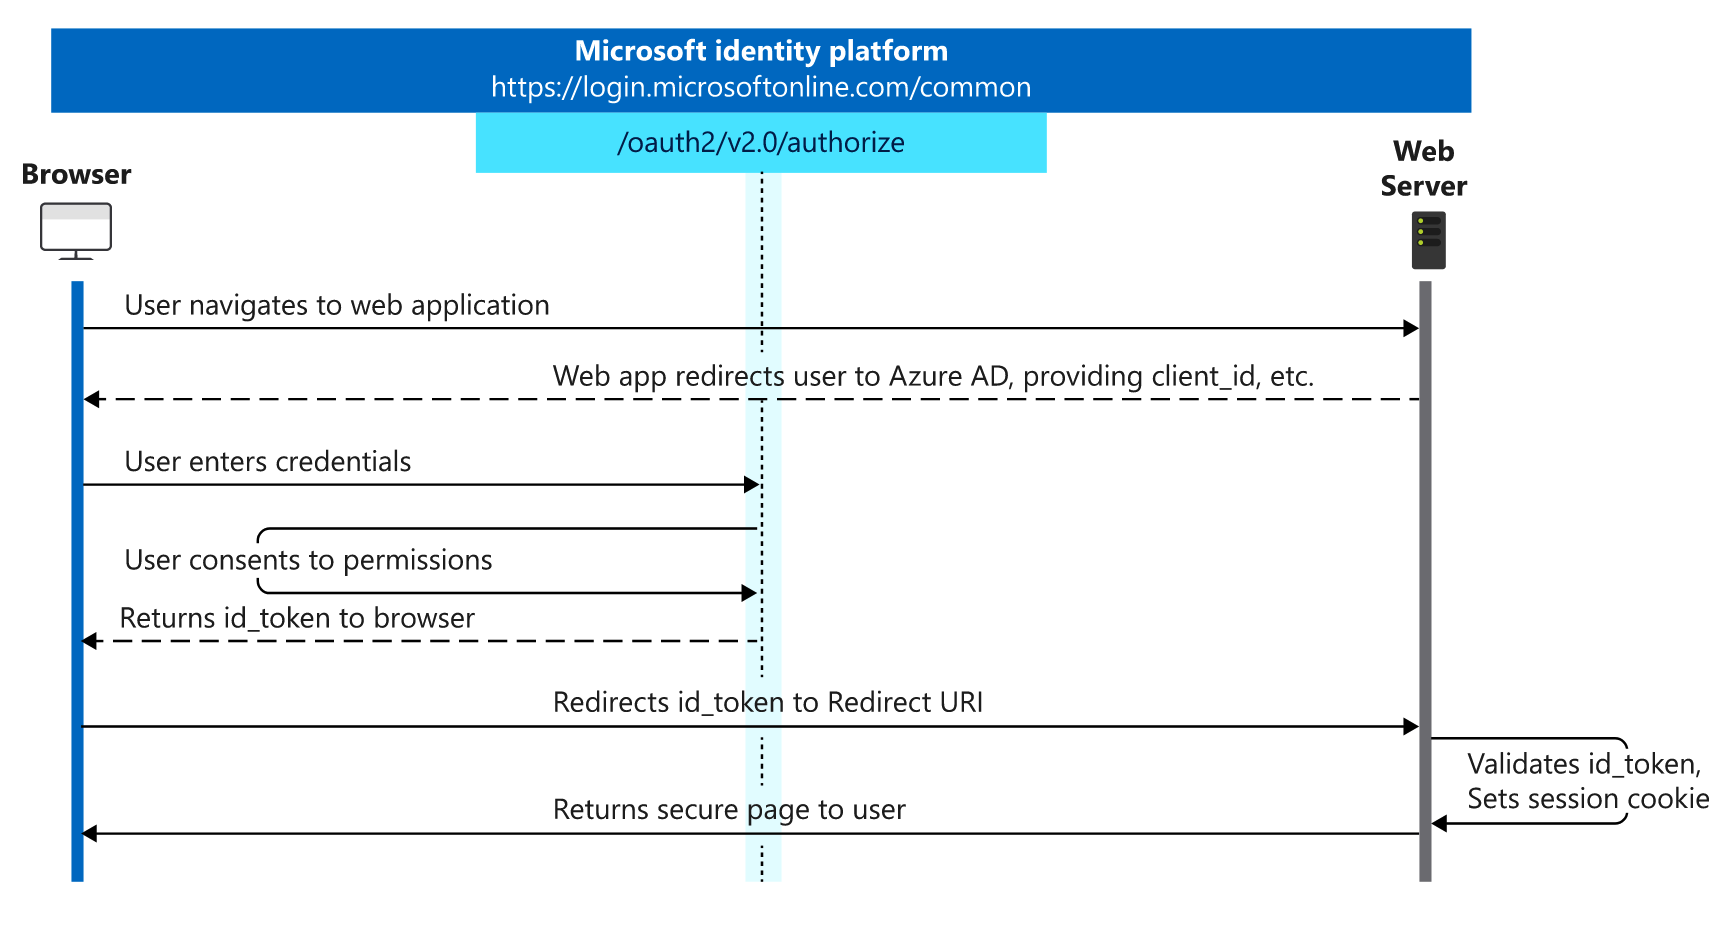
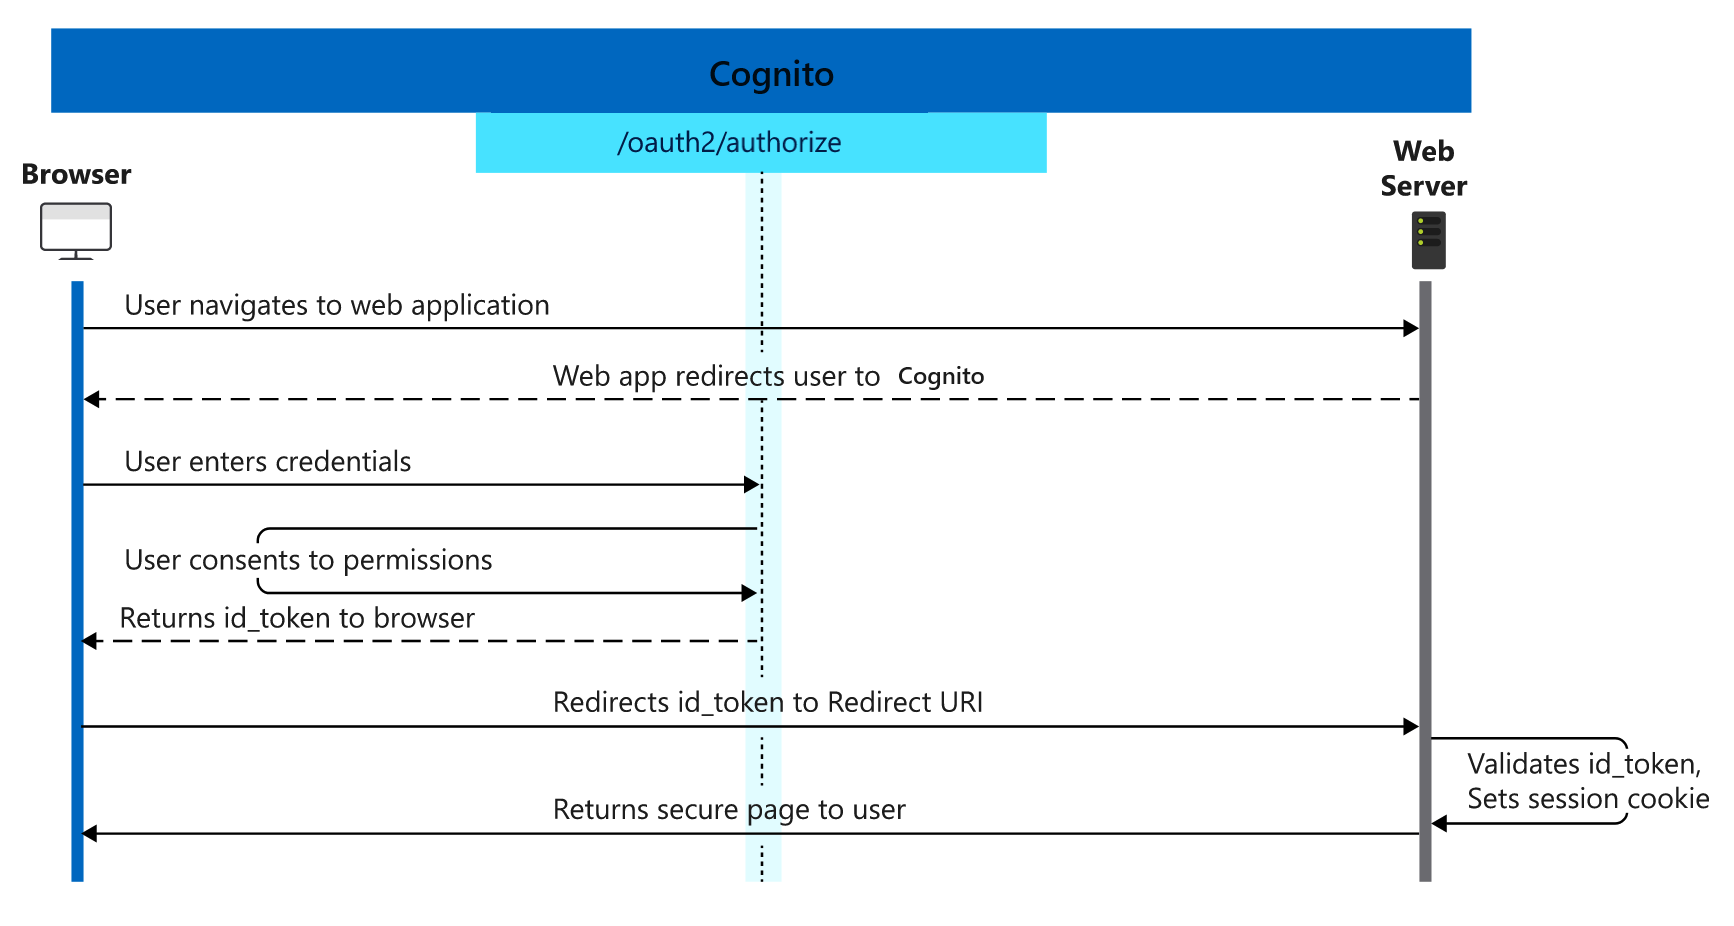
first review

Changed region(s): [[0.2803, 0.0302, 0.5917, 0.1814], [0.4983, 0.3931, 0.7474, 0.4233]]

diff --git a/authentication/Cognito/README.md b/authentication/Cognito/README.md
@@ -2,7 +2,6 @@
 
 <!-- TOC -->
 
-- [Configuration of ODM with Amazon Cognito](#configuration-of-odm-with-amazon-cognito)
 - [Introduction](#introduction)
     - [What is Amazon Cognito?](#what-is-amazon-cognito)
     - [About this task](#about-this-task)
@@ -211,6 +210,9 @@ To create the Cognito User Pool dedicated to ODM, we followed the [getting start
    In **Group information**:
      * **Group name**:
        * Enter the **odm-admin** name
+> [!WARNING]
+> Please do not use a different name than **odm-admin** 
+
      * Click on **Create group**
 
 ## Add the created user to the **odm-admin** group
@@ -275,8 +277,10 @@ Select the **odmuserpool** User Pool:
     In **App client**:
       * App type:
         * Select **Confidential client**
-      For **App client name**:
+
+      * For **App client name**:
         * Enter **odmclientcredentials**
+
     In **Hosted UI settings**:
       * For **URL**
         * Enter a dummy URL: https://localhost
@@ -292,7 +296,7 @@ Select the **odmuserpool** User Pool:
 ## Create a custom claim
 
 To be able to correctly manage the authorization from the ODM client application hosted on liberty by using an id_token for using the authorization flow and with an access_token for the client-credentials flow, we need a common claim inside the id_token and the access_token. We could use the **sub** claim. But, if we use **sub**, it will display inside ODM UI a unique identifier as a UUID which is not convenient as we prefer a name or an email. We would like to manage it the same way we do it with Azure AD creating an [**identity** custom claim](https://github.com/DecisionsDev/odm-docker-kubernetes/blob/master/authentication/AzureAD/README_WITH_CLIENT_SECRET.md#set-up-an-microsoft-entra-id-application-using-a-client-secret). Unfortunately, even if Cognito recently added a support for [custom claim in access token](https://aws.amazon.com/about-aws/whats-new/2023/12/amazon-cognito-user-pools-customize-access-tokens/), it is still [not supported for access_token dealing with the client-credentials flow](https://docs.aws.amazon.com/cognito/latest/developerguide/user-pool-lambda-pre-token-generation.html).
-So, the following way to manage this is a workaround by waiting the availability of this feature.
+So, the following way to manage this is a workaround until this feature is available.
 
 As we cannot add a custom claim inside the client-credentials access_token, we will add a claim inside the id_token that is already present inside the access_token.       
 There is a **client_id** claim inside the access_token, that is not present by default inside the id_token.
@@ -326,9 +330,10 @@ Select **Functions** in the left menu:
   
 In the **Create function** section:
   * choose **Author from scratch**
+
 In **Basic information**:
   * In **function name**
-    * Put **odmLambdaFunction**
+    * Enter **odmLambdaFunction**
 
 Click on the **Create function** button
 
@@ -356,7 +361,8 @@ const handler = async (event) => {
 
 export { handler };
 ```
-! Don't forget to click on the **Deploy** button
+> [!WARNING]
+> Do not forget to click on the **Deploy** button !
 
 3. Associate the Lamda function to the Pre token generation Lambda trigger
 
@@ -429,7 +435,10 @@ In the **Container software library** tile, verify your entitlement on the **Vie
     - *COGNITO_USER_POOL_ID* is the COGNITO User Pool ID retrieved at Amazon Cognito > User pools > odmuserpool > User pool overview > User pool ID
     
 
-    The [script](generateTemplate.sh) allows you to generate the necessary configuration files.
+    The script [generateTemplate.sh](generateTemplate.sh) allows you to generate the necessary configuration files.
+    
+    This script is available in the present project and requires some companion files in the project as well. So please clone/download the project at this point if you have not done this already.
+
     Generate the files with the following command:
     ```
     ./generateTemplate.sh -u COGNITO_USER_POOL_ID -d COGNITO_DOMAIN_NAME -r COGNITO_REGION -i COGNITO_APP_CLIENT_ID -s COGNITO_APP_CLIENT_SECRET -c COGNITO_CC_CLIENT_ID -x COGNITO_CC_CLIENT_SECRET
@@ -437,14 +446,28 @@ In the **Container software library** tile, verify your entitlement on the **Vie
 
     Where:
     - *COGNITO_USER_POOL_ID* is the COGNITO User Pool ID retrieved at Amazon Cognito > User pools > odmuserpool > User pool overview > User pool ID
-    - *COGNITO_DOMAIN_NAME* is the prefix name of the COGNITO User Pool Domain retrieved at Amazon Cognito > User pools > odmuserpool > App integration > Domain (odm in our tutorial)
+    - *COGNITO_DOMAIN_NAME* is the prefix name of the COGNITO User Pool Domain retrieved at Amazon Cognito > User pools > odmuserpool > App integration > Domain
+    > [!WARNING]
+    > only copy the prefix (odm in our tutorial) and not the entire value
     - *COGNITO_REGION* is the region where the COGNITO User Pool is deployed
     - *COGNITO_APP_CLIENT_ID* is the COGNITO ODM App Client ID retrieved at Amazon Cognito > User pools > odmuserpool > App integration > App clients and analytics > odm > Client ID
     - *COGNITO_APP_CLIENT_SECRET* is the COGNITO ODM App Client Secret retrieved at Amazon Cognito > User pools > odmuserpool > App integration > App clients and analytics > odm > Client Secret
     - *COGNITO_CC_CLIENT_ID* is the COGNITO ODM Client-Credentials App Client ID retrieved at Amazon Cognito > User pools > odmuserpool > App integration > App clients and analytics > odmclientcredentials > Client ID
     - *COGNITO_CC_CLIENT_SECRET* is the COGNITO ODM Client-Credentials App Client Secret retrieved at Amazon Cognito > User pools > odmuserpool > App integration > App clients and analytics > odmclientcredentials > Client Secret
 
-    The following four files are generated into the `output` directory:
+    Here is an example of the command line:
+    ```
+    ./generateTemplate.sh \
+        -u odmuserpool \
+        -d odm \
+        -r eu-west-3 \
+        -i 7qo....................... \
+        -s rrt................................................ \
+        -c 6io....................... \
+        -x c5b................................................
+    ```
+
+    The four files below are generated into the [output](output) directory:
 
     - webSecurity.xml contains the mapping between Liberty J2EE ODM roles and Cognito User Pool groups and users:
       * rtsAdministrators/resAdministrators/resExecutors ODM roles are given to the CLIENT_ID (which is seen as a user) to manage the client-credentials flow
@@ -452,6 +475,7 @@ In the **Container software library** tile, verify your entitlement on the **Vie
       * for web access to Decision Center an Decision Server consoles using userIdentifier="client_id" with the Authorization Code flow
       * for the rest-api call using userIdentifier="client_id" with the client-credentials flow
     - openIdParameters.properties configures several features like allowed domains, logout, and some internal ODM openid features
+    - OdmOidcProviders.json configures the connection to the RES Console using the Client Credentials grant type
 
 4. Create the Cognito authentication secret
 
@@ -556,6 +580,8 @@ In the **Container software library** tile, verify your entitlement on the **Vie
       Using Routes:
       - Decision Center redirect URI:  `https://<DC_HOST>/decisioncenter/openid/redirect/odm`
       - Decision Runner redirect URI:  `https://<DR_HOST>/DecisionRunner/openid/redirect/odm`
+      - Decision Server Console redirect URI:  `https://<DSC_HOST>/res/openid/redirect/odm`
+      - Decision Server runtime redirect URI:  `https://<DSR_HOST>/DecisionService/openid/redirect/odm`
       - Rule Designer redirect URI: `https://127.0.0.1:9081/oidcCallback`
 
       Using Ingress:
@@ -567,9 +593,12 @@ In the **Container software library** tile, verify your entitlement on the **Vie
 
    From the Cognito admin console, in **ODM User Pool** / **App integration** / **App clients and analytics** / **odm**
     - In **Hosted UI**, click the **Edit** button
-        * Add the redirect URIs in the **Allowed callback URLs** field for each components.
+        * Add the redirect URIs in the **Allowed callback URLs** field for all components.
 
-      For example, add the Decision Center redirect URI that you got earlier (`https://<DC_HOST>/decisioncenter/openid/redirect/odm` -- do not forget to replace <DC_HOST> with your actual host name!)
+      For example, add the Decision Center redirect URI that you got earlier (`https://<DC_HOST>/decisioncenter/openid/redirect/odm` 
+> [!WARNING]
+> Please replace <DC_HOST> with your actual host name!)
+
     - Click **Save changes** at the bottom of the page.
 
 
@@ -588,13 +617,12 @@ In the **Container software library** tile, verify your entitlement on the **Vie
 
 3. Edit your `eclipse.ini` file and add the following lines at the end.
     ```
-    -Djavax.net.ssl.trustStore=<ECLIPSEINITDIR>/truststore.jks
+    -Djavax.net.ssl.trustStore=truststore.jks
     -Djavax.net.ssl.trustStorePassword=changeme
-    -Dcom.ibm.rules.authentication.oidcconfig=<ECLIPSEINITDIR>/OdmOidcProvidersRD.json
+    -Dcom.ibm.rules.authentication.oidcconfig=OdmOidcProvidersRD.json
     ```
     Where:
     - *changeme* is the fixed password to be used for the default truststore.jks file.
-    - *ECLIPSEINITDIR* is the Rule Designer installation directory next to the eclipse.ini file.
 
 4. Restart Rule Designer.
 
@@ -628,22 +656,29 @@ You perform a basic authentication ODM runtime call in the following way:
         https://<DS_RUNTIME_HOST>/DecisionService/rest/production_deployment/1.0/loan_validation_production/1.0
   ```
 
-  Where `b2RtQWRtaW46b2RtQWRtaW4=` is the base64 encoding of the current username:password odmAdmin:odmAdmin
+  Where:
+  - `b2RtQWRtaW46b2RtQWRtaW4=` is the base64 encoding of the current username:password odmAdmin:odmAdmin
 
-If you want to perform a bearer authentication ODM runtime call using the Client Credentials flow, you must get a bearer access token:
+If you want to perform a bearer authentication ODM runtime call using the Client Credentials flow, you need to get a bearer access token before invoking the execution of the ruleset as follows (You need to set up `jq` beforehand and set the four environment variables):
 
-  ```
-  $ curl -k -X POST -H "Content-Type: application/x-www-form-urlencoded" \
-      -d 'client_id=<CLIENT_ID>&scope=openid&client_secret=<CLIENT_SECRET>&grant_type=client_credentials' \
-      '<KEYCLOAK_SERVER_URL>/protocol/openid-connect/token'
-  ```
+  ``` 
+# /bin/bash
 
- And use the retrieved access token in the following way:
+export DS_RUNTIME_HOST=<HOSTNAME eg. k8s-default-odm2302o-ed3c5eee99-301488862.eu-west-3.elb.amazonaws.com>
+export COGNITO_SERVER_URL=<URL eg. https://odm.auth.eu-west-3.amazoncognito.com>
+export CC_CLIENT_ID=<odmclientcredentials client ID>
+export CC_CLIENT_SECRET=<odmclientcredentials client secret>
 
-   ```
-  $ curl -H "Content-Type: application/json" -k --data @payload.json \
-         -H "Authorization: Bearer <ACCESS_TOKEN>" \
-         https://<DS_RUNTIME_HOST>/DecisionService/rest/production_deployment/1.0/loan_validation_production/1.0
+curl -k -X POST -H "Content-Type: application/x-www-form-urlencoded" \
+      -d "client_id=$CC_CLIENT_ID&scope=odmcc/write&client_secret=$CC_CLIENT_SECRET&grant_type=client_credentials" \
+      "$COGNITO_SERVER_URL/oauth2/token" > response.json
+
+export ACCESS_TOKEN=$(jq -r .access_token response.json)
+
+curl -k --data @payload.json \
+       -H "Content-Type: application/json" \
+       -H "Authorization: Bearer ${ACCESS_TOKEN}" \
+       https://$DS_RUNTIME_HOST/DecisionService/rest/production_deployment/1.0/loan_validation_production/1.0
   ```
 
 # Troubleshooting
